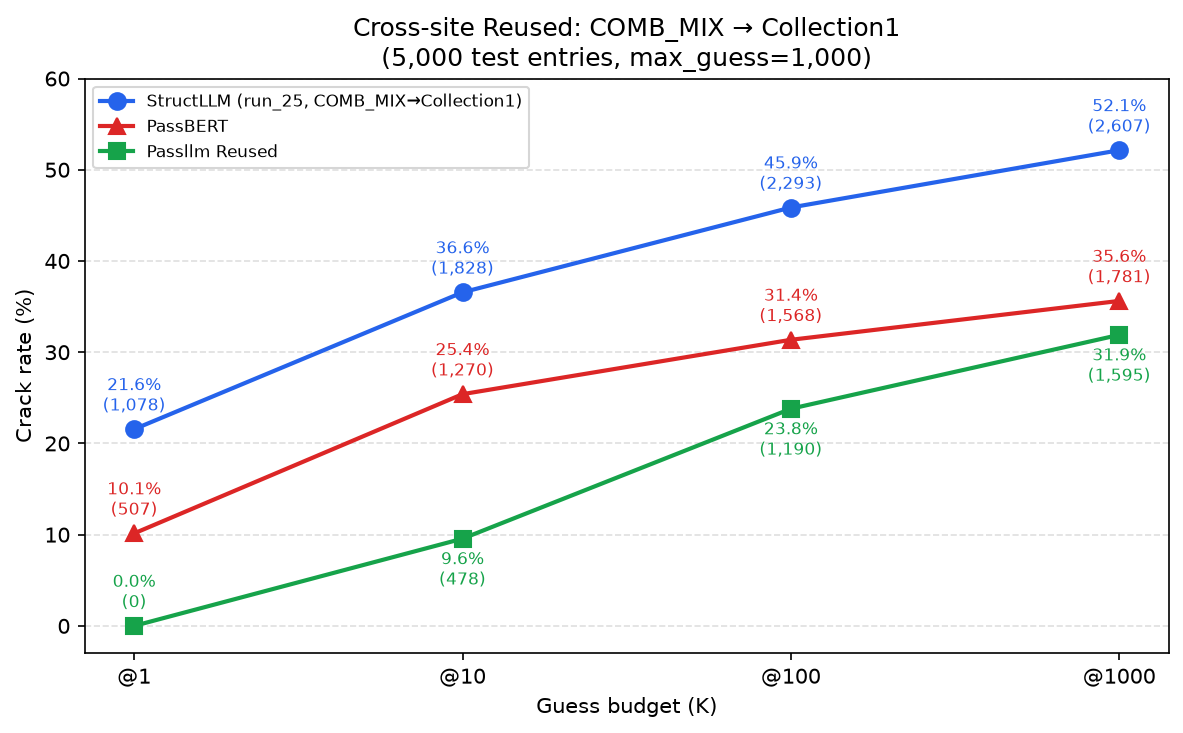
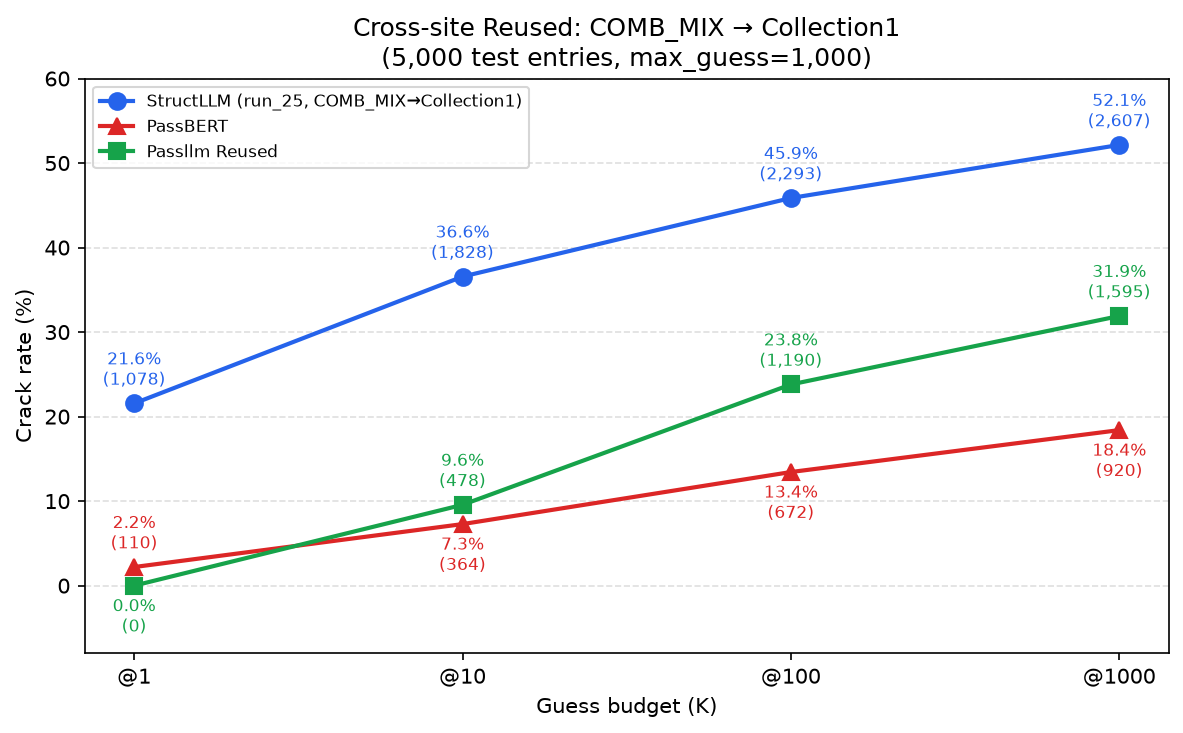
docs: 更正 COMB_MIX / Cross-site Reused 的 PassBERT 數據並重畫圖表
- COMB_MIX_reused.md: PassBERT @1/10/100/1000 = 4.52/11.26/17.80/22.94%
- Cross-site_exp.md: PassBERT (記錄層級) = 2.20/7.28/13.44/18.40%
- 重畫兩張對應比較圖
- 更新 docs/logs/20261015_modify.md

diff --git a/docs/logs/20261015_modify.md b/docs/logs/20261015_modify.md
@@ -39,3 +39,13 @@
 ## Cross-site_exp Reused：圖表更新為三線
 
 - 重畫 `gen/results/id9_run25_Mist7B_COMBMIX_to_Collection1_crosssite_reused_result.png`：StructLLM（藍）/ PassBERT（紅，更正後數字）/ Passllm Reused（綠）三線；三者分母皆為 5,000，移除舊的分母差異註記。
+
+## COMB_MIX_reused：更正 PassBERT 數字
+
+- `docs/reports/COMB_MIX_reused.md` §1 PassBERT 欄更正為：@1 4.52% (226) / @10 11.26% (563) / @100 17.80% (890) / @1000 22.94% (1,147)（分母 5,000）。
+- 重畫 `gen/results/id9_run22_23_Mist7B_COMB_MIX_StructLLM_sibling_vs_baselines_result.png`：PassBERT 線改用新數字（終點標 22.9%）；圖例由右下移至左上，避免遮住下移後的 PassBERT 線。
+
+## Cross-site_exp Reused：第三次更正 PassBERT 數字 + 重畫圖表
+
+- `docs/reports/Cross-site_exp.md` §Reused / COMB_MIX→Collection1 的 PassBERT 欄更正為（記錄層級，5,000 筆中任一組命中即破解）：@1 2.20% (110) / @10 7.28% (364) / @100 13.44% (672) / @1000 18.40% (920)。
+- 重畫 `gen/results/id9_run25_Mist7B_COMBMIX_to_Collection1_crosssite_reused_result.png`：PassBERT 線改用新數字；因 PassBERT 在 @10 起低於 Passllm Reused，調整兩線數值標註上下位置避免重疊，y 軸下限改為 -8。

diff --git a/docs/reports/COMB_MIX_reused.md b/docs/reports/COMB_MIX_reused.md
@@ -17,10 +17,10 @@
 
 | K | sibling-json (run_22) | sibling-seq (run_23) | PassBERT | PassLLM (COMB_MIX_sibling) |
 |---:|---:|---:|---:|---:|
-| @1    | **23.60%** (1,180) | 20.02% (1,001) | 19.76% (988) | 0.00% (0) |
-| @10   | **38.92%** (1,946) | 36.38% (1,819) | 35.46% (1,773) | 11.56% (578) |
-| @100  | **45.30%** (2,265) | 44.34% (2,217) | 40.82% (2,041) | 29.20% (1,460) |
-| @1000 | **50.66%** (2,533) | 49.96% (2,498) | 44.36% (2,218) | 35.78% (1,789) |
+| @1    | **23.60%** (1,180) | 20.02% (1,001) | 4.52% (226) | 0.00% (0) |
+| @10   | **38.92%** (1,946) | 36.38% (1,819) | 11.26% (563) | 11.56% (578) |
+| @100  | **45.30%** (2,265) | 44.34% (2,217) | 17.80% (890) | 29.20% (1,460) |
+| @1000 | **50.66%** (2,533) | 49.96% (2,498) | 22.94% (1,147) | 35.78% (1,789) |
 
 
 

diff --git a/docs/reports/Cross-site_exp.md b/docs/reports/Cross-site_exp.md
@@ -10,10 +10,10 @@
 
 | K | StructLLM（run_25, COMB_MIX→Collection1） | Passllm Reused ‡ | PassBERT |
 |---:|---:|---:|---:|
-| @1    | 21.56% (1,078) | 0.00% (0) | 10.14% (507) |
-| @10   | 36.56% (1,828) | 9.56% (478) | 25.40% (1,270) |
-| @100  | 45.86% (2,293) | 23.80% (1,190) | 31.36% (1,568) |
-| @1000 | 52.14% (2,607) | 31.90% (1,595) | 35.62% (1,781) |
+| @1    | 21.56% (1,078) | 0.00% (0) | 2.20% (110) |
+| @10   | 36.56% (1,828) | 9.56% (478) | 7.28% (364) |
+| @100  | 45.86% (2,293) | 23.80% (1,190) | 13.44% (672) |
+| @1000 | 52.14% (2,607) | 31.90% (1,595) | 18.40% (920) |
 
 > ‡ Passllm Reused 來源：`results/passllm/cross-site/COMBMIX_Collection1/eval-387031_pii_sibling.out`（分母 5,000；另有 @50 19.72% (986)、@500 29.96% (1,498)）。
 
